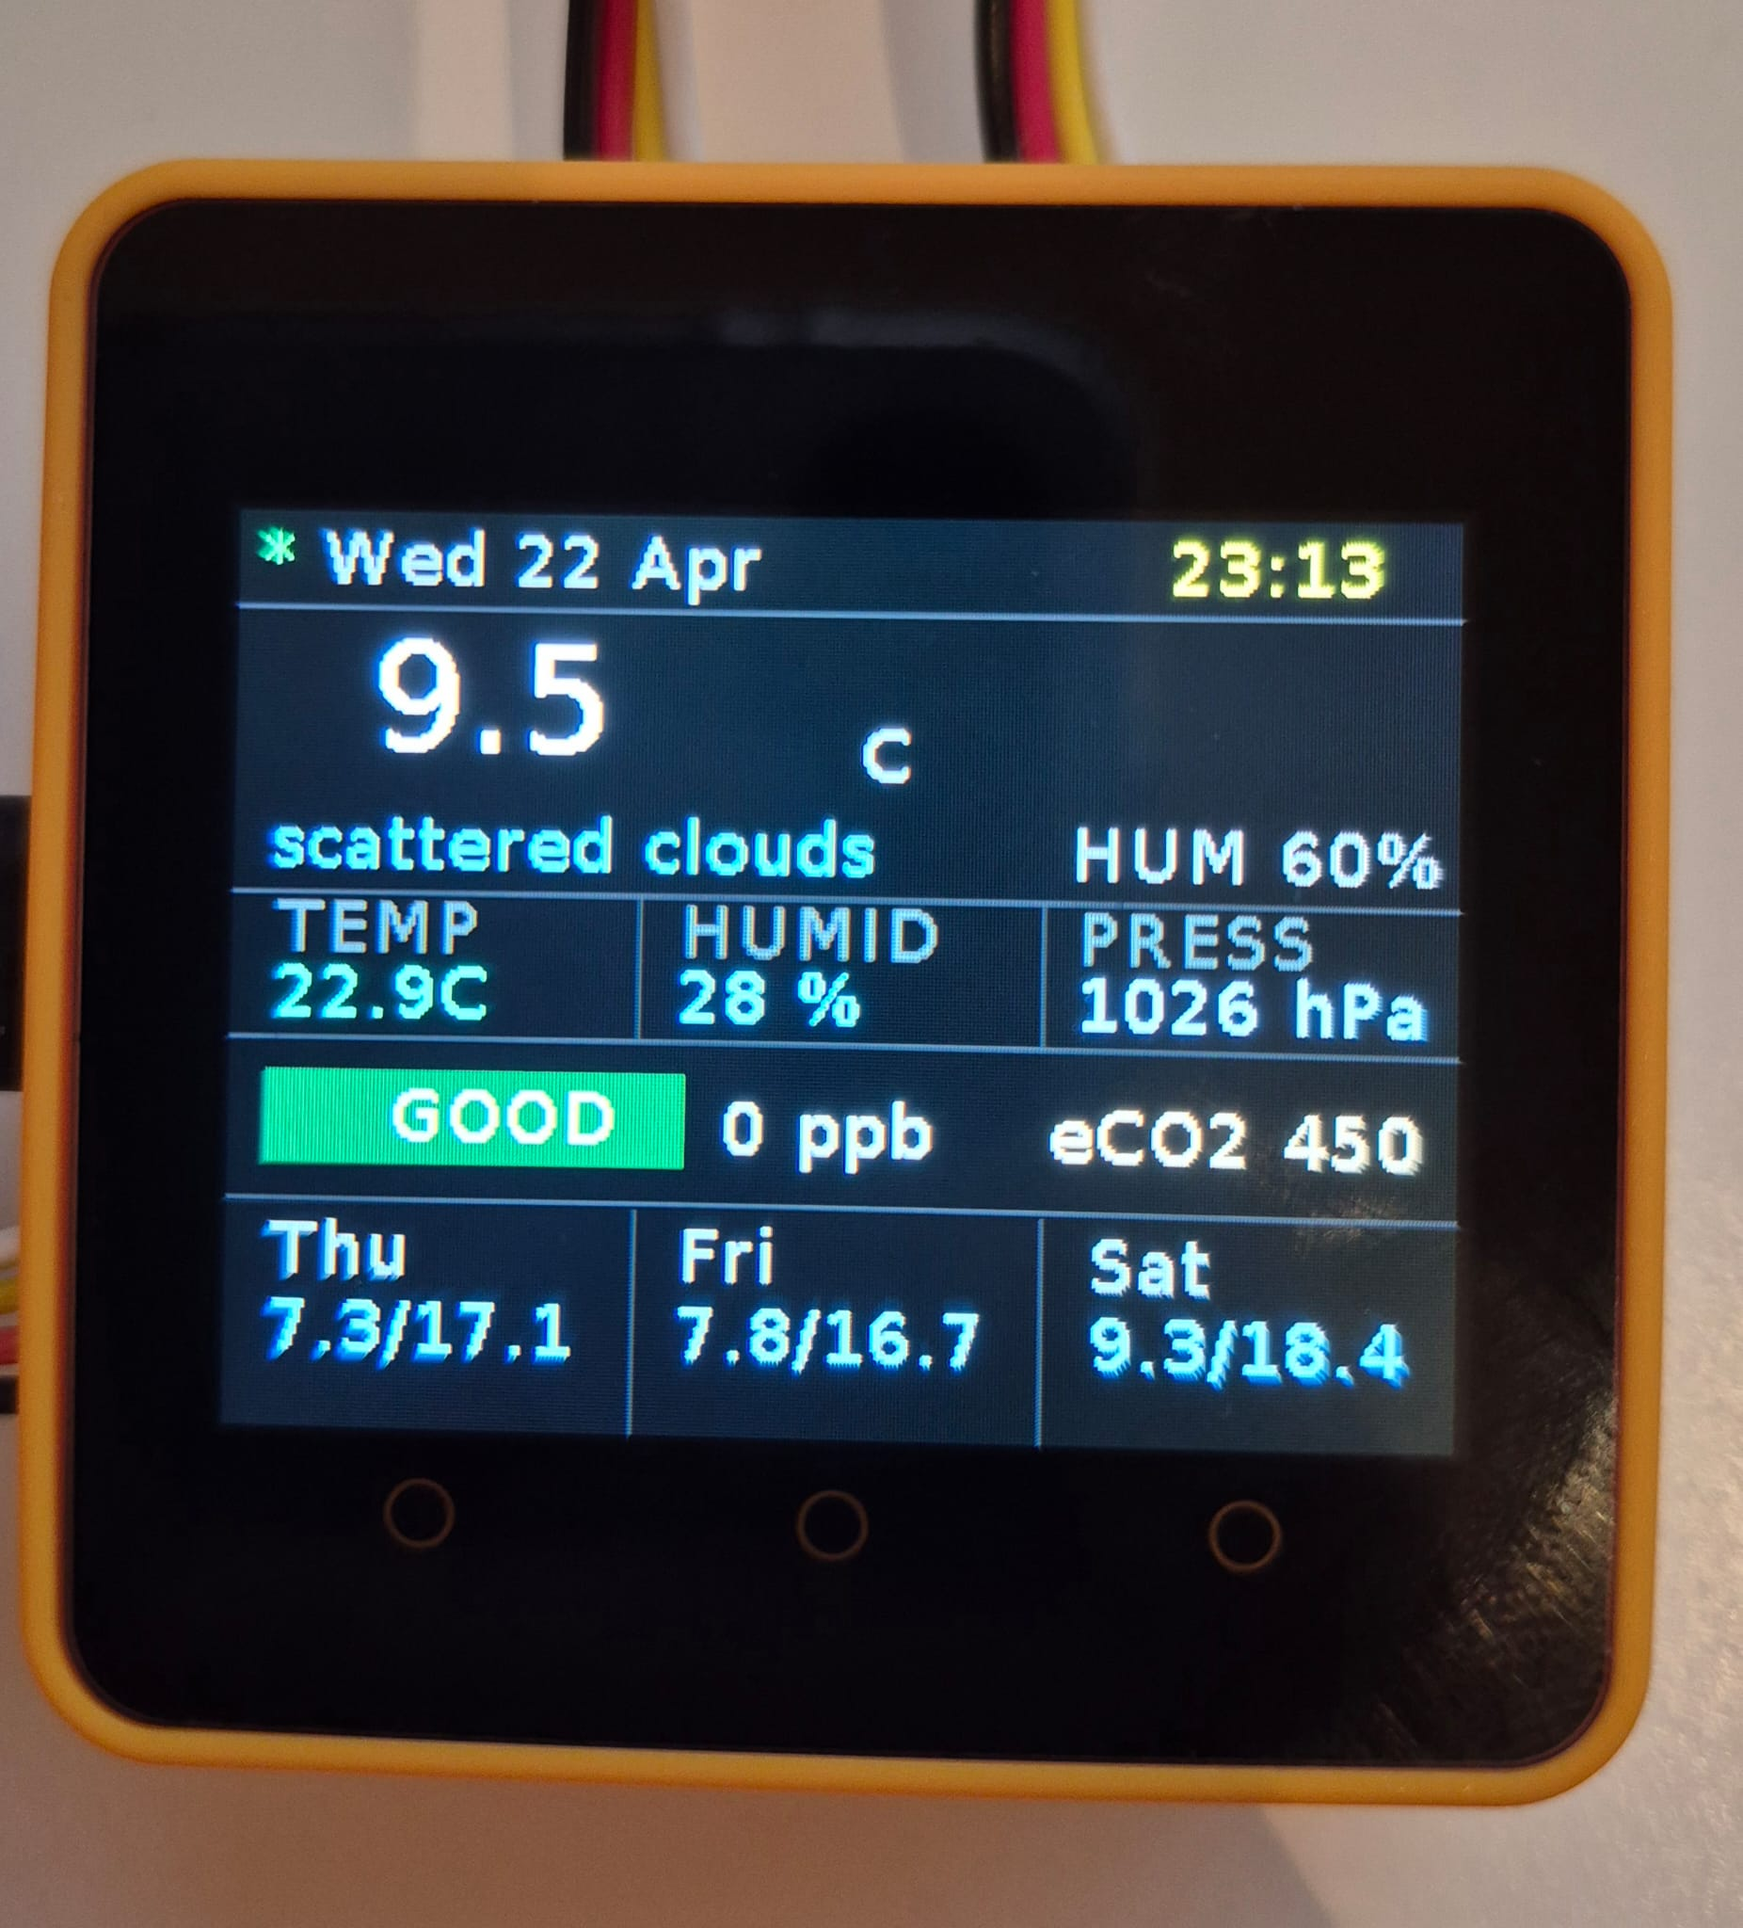
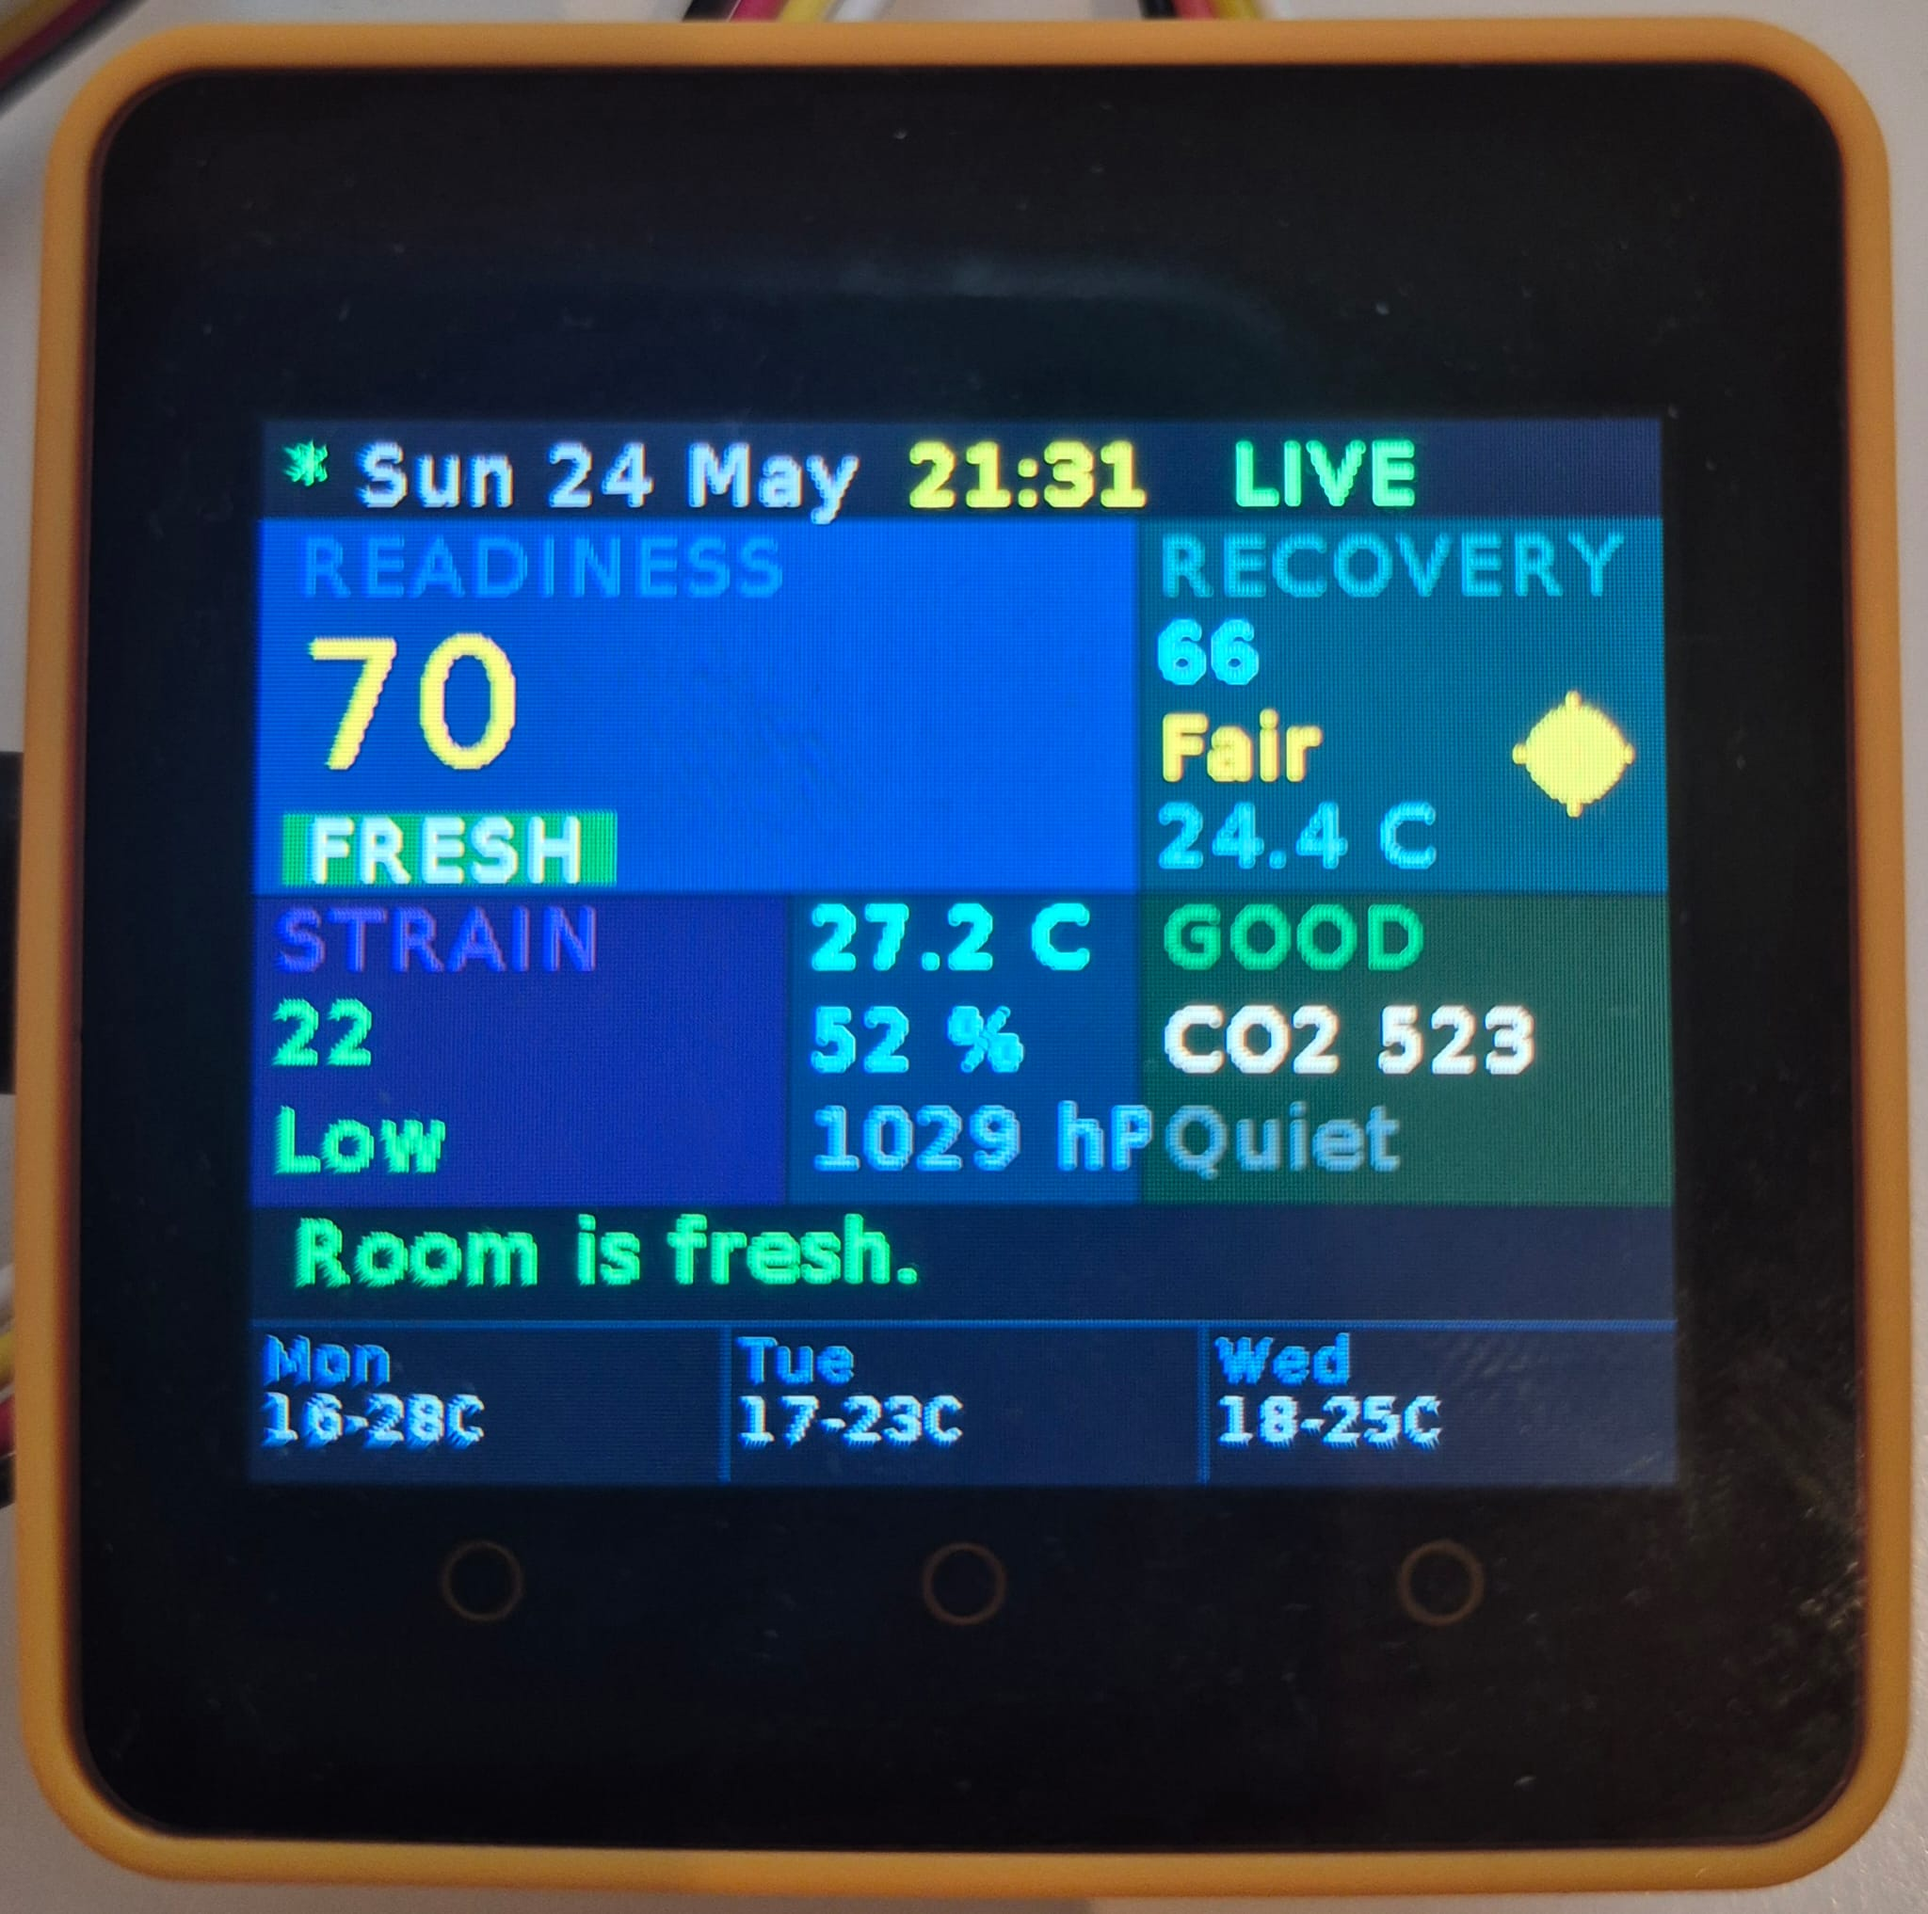
docs: update device screenshots with current UI

diff --git a/README.md b/README.md
@@ -96,7 +96,7 @@ The room's current human-readable identity — a short label that summarises how
 
 **Dashboard UI (320 × 240, dark background)**
 
-Page 1 — Dashboard:
+Page 1 — Dashboard (Button A):
 ```
 ┌────────────────────────────────────────┐
 │  ● Sun 24 May   21:31            LIVE  │  header: dot, date, time, badge
@@ -115,7 +115,7 @@ Page 1 — Dashboard:
 └─────────────────┴───────────────┴──────────────┘
 ```
 
-Page 2 — Coach:
+Page 2 — Coach (Button B):
 ```
 ┌────────────────────────────────────────┐
 │               23:48          COACH     │  header
@@ -180,13 +180,13 @@ Page 3 — Coach menu (Button C):
 
 **Device screenshots**
 
-| Dashboard | WiFi menu |
-|-----------|-----------|
-| ![Dashboard](docs/device_dashboard.jpeg) | ![WiFi menu](docs/device_wifi_menu.jpeg) |
+| Dashboard (Page 1) | Coach (Page 2) |
+|--------------------|----------------|
+| ![Dashboard](docs/device_dashboard.jpeg) | ![Coach](docs/Device_coach.jpeg) |
 
-| Coach menu | Meditation picker |
-|------------|-------------------|
-| ![Coach menu](docs/coach_menu.jpeg) | ![Meditation picker](docs/meditation_menu.jpeg) |
+| Coach menu (Page 3) | WiFi menu |
+|---------------------|-----------|
+| ![Coach menu](docs/coach_menu.jpeg) | ![WiFi menu](docs/device_wifi_menu.jpeg) |
 
 **3D-printed enclosure**
 
